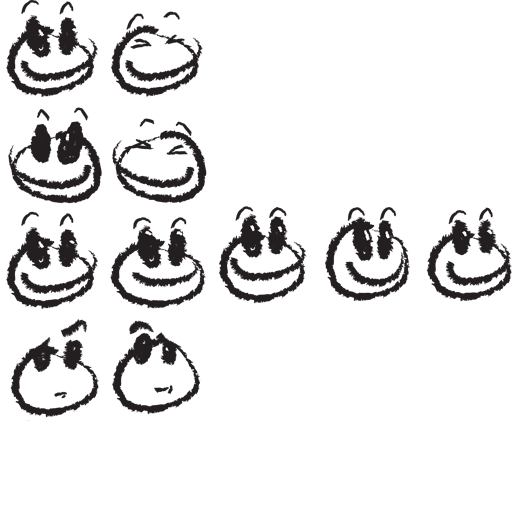
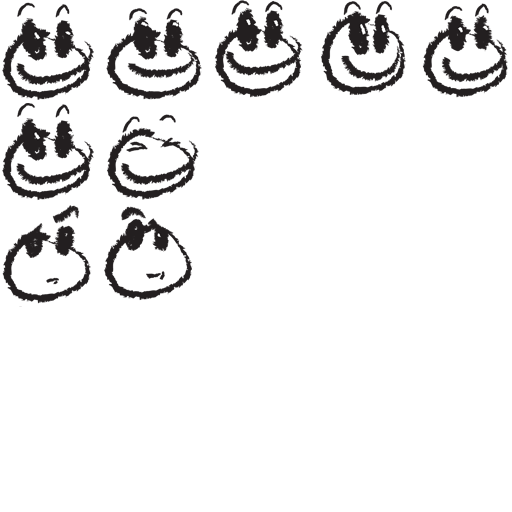
made changes to code, and also made changes to character sprite

diff --git a/src/main.cpp b/src/main.cpp
@@ -82,7 +82,7 @@ int main(int argc, char *argv[])
   
   for (int i = 1; i <= num_sounds; ++i)
   {
-    temp_string << RESOURCES LEVEL1 << i << ".wav";
+    temp_string << RESOURCES LEVEL1 << i << SOUND_FILE_TYPE;
     
     result = FMOD_System_CreateSound(system, temp_string.str().c_str(),
                                      FMOD_SOFTWARE, 0, &temp_sound);

diff --git a/src/defines.h b/src/defines.h
@@ -27,10 +27,11 @@
 #define AHNOLD_TEXTURE "Ahnold.png"
 
 #define NUM_SOUNDS_FILE "sounds.txt"
+#define SOUND_FILE_TYPE ".mp3"
 
 // sound files
-#define PLAYER_SOUND "Default.wav"
-#define AHNOLD_SFX "Ahnold_sound.wav"
+#define PLAYER_SOUND "Default.mp3"
+#define AHNOLD_SFX "punch sound.wav"
 
 // widths and heights
 #define TILE_WIDTH 100
